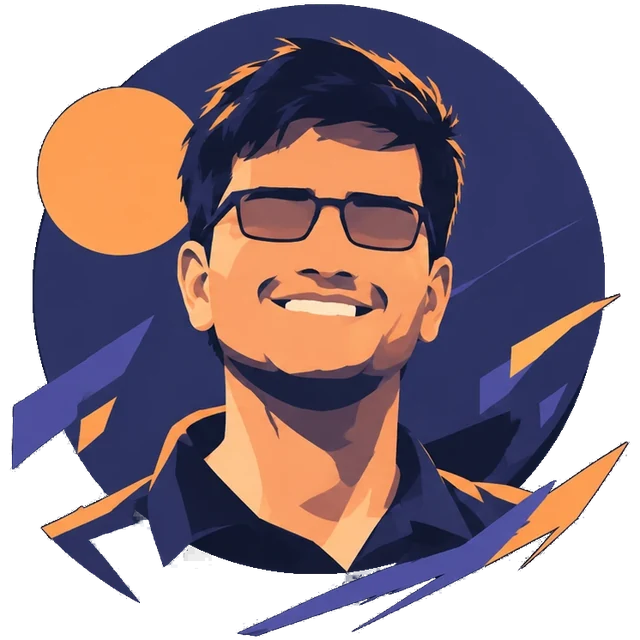
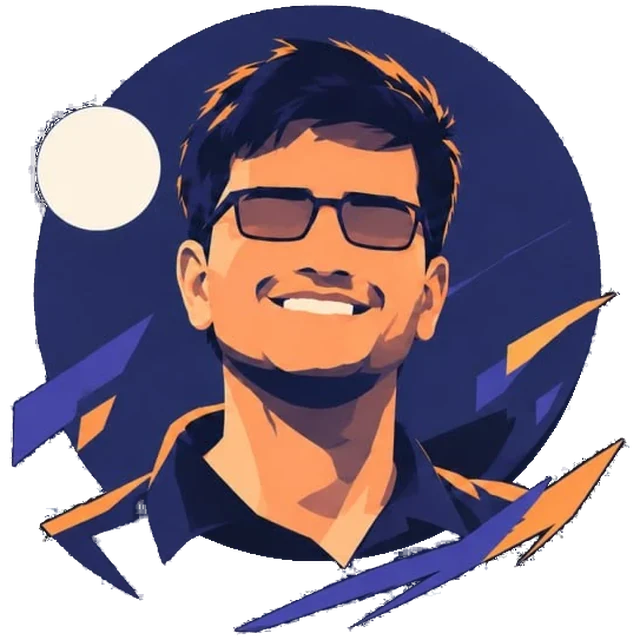
Sun and moon, and theme toggle

diff --git a/src/styles/index.css b/src/styles/index.css
@@ -270,6 +270,57 @@ h3 {
   box-shadow: none;
 }
 
+/* Hovering the theme toggle previews the mode it will switch to: a moonlit night
+   glow from the light theme, warm daylight from the dark theme. */
+.theme-toggle {
+  transition: transform 0.1s ease, box-shadow 0.35s ease, background-color 0.35s ease,
+    border-color 0.35s ease, color 0.35s ease;
+}
+
+.theme-toggle-icon {
+  display: inline-block;
+  transition: transform 0.35s cubic-bezier(0.2, 0.8, 0.2, 1), text-shadow 0.35s ease;
+}
+
+@media (hover: hover) {
+  :root:not([data-theme='dark']) .theme-toggle:hover {
+    background: #161a30;
+    border-color: #353b60;
+    color: #f1efff;
+    box-shadow: 0 2px 0 #070914, 0 0 0 4px rgba(141, 141, 255, 0.16),
+      0 6px 22px rgba(74, 74, 232, 0.45);
+  }
+
+  :root:not([data-theme='dark']) .theme-toggle:hover .theme-toggle-icon {
+    transform: rotate(-18deg) scale(1.12);
+    text-shadow: 0 0 8px rgba(200, 200, 255, 0.9);
+  }
+
+  :root[data-theme='dark'] .theme-toggle:hover {
+    background: #fff8e1;
+    border-color: #f2c230;
+    color: #b77800;
+    box-shadow: 0 2px 0 #c39514, 0 0 0 4px rgba(255, 214, 51, 0.16),
+      0 6px 24px rgba(255, 196, 40, 0.5);
+  }
+
+  :root[data-theme='dark'] .theme-toggle:hover .theme-toggle-icon {
+    transform: rotate(45deg) scale(1.12);
+    text-shadow: 0 0 10px rgba(255, 180, 0, 0.85);
+  }
+}
+
+@media (prefers-reduced-motion: reduce) {
+  .theme-toggle,
+  .theme-toggle-icon {
+    transition: none;
+  }
+
+  .theme-toggle:hover .theme-toggle-icon {
+    transform: none !important;
+  }
+}
+
 .nav-toggle {
   display: none;
   gap: 4px;

diff --git a/src/components/ThemeToggle.jsx b/src/components/ThemeToggle.jsx
@@ -24,7 +24,9 @@ export default function ThemeToggle() {
       aria-label={`Switch to ${theme === 'dark' ? 'light' : 'dark'} theme`}
       title={`Switch to ${theme === 'dark' ? 'light' : 'dark'} theme`}
     >
-      {theme === 'dark' ? '☀' : '☾'}
+      <span className="theme-toggle-icon" aria-hidden="true">
+        {theme === 'dark' ? '☀' : '☾'}
+      </span>
     </button>
   )
 }
